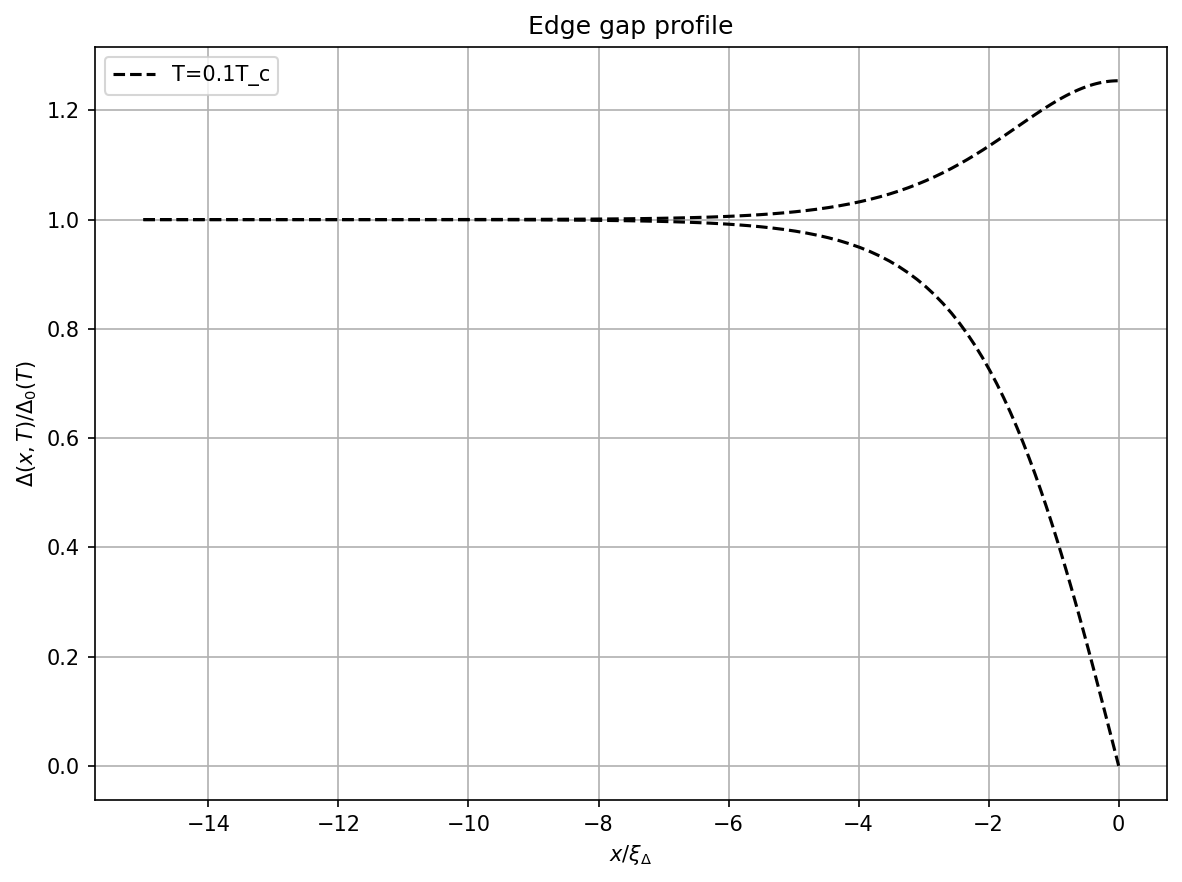
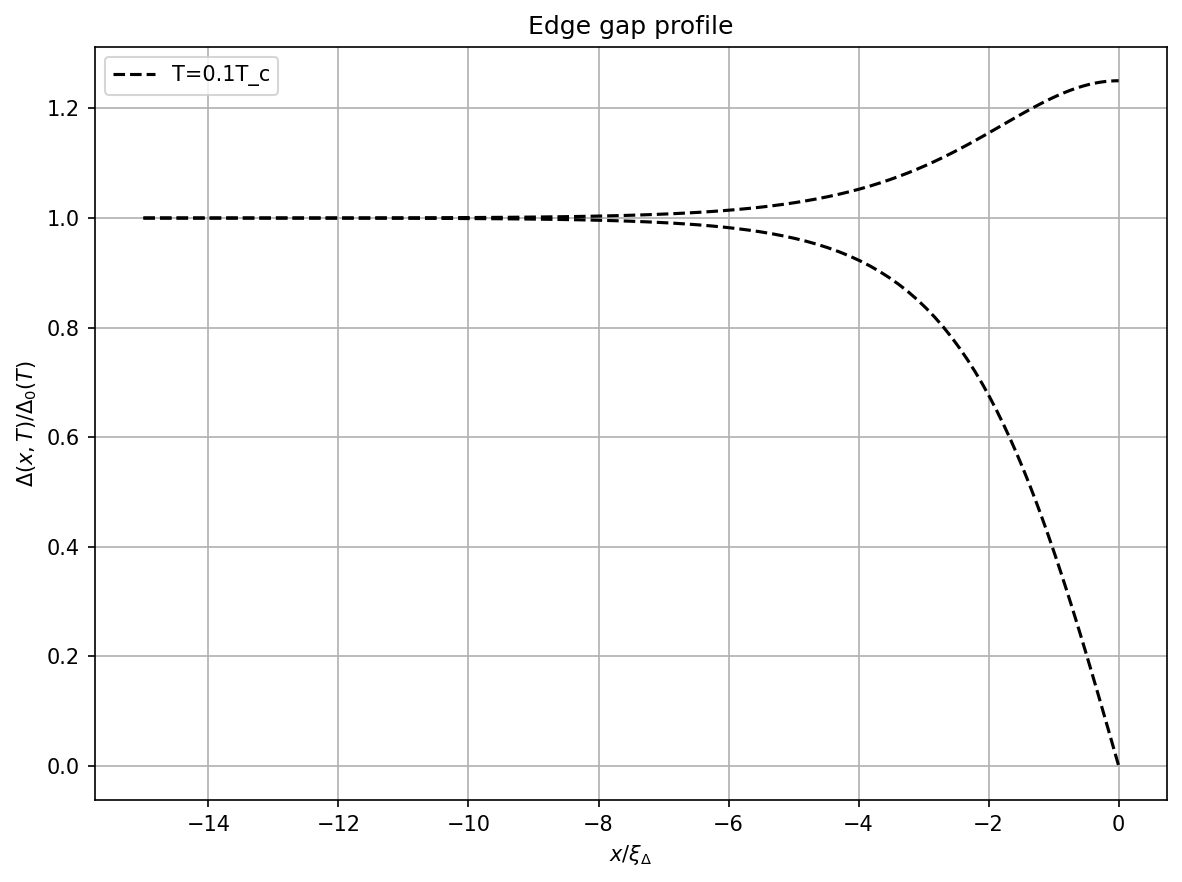
refactor: optimize propagator function by simplifying variable handling and improving interpolation methods for enhanced performance

diff --git a/src/qc_edge/propagator.py b/src/qc_edge/propagator.py
@@ -38,14 +38,10 @@ def propagator(
     g : ndarray
         Diagonal component of the Green's function
     """
-    DDelta1 = Delta1.copy()
-    DDelta2 = Delta2.copy()
 
     px = np.cos(thetap)
     py = np.sin(thetap)
-    x = np.concatenate(
-        [xspan, -np.flip(xspan[:-1])]
-    )  # x coordinate of the classical trajectory
+    x = np.concatenate([xspan, -np.flip(xspan[:-1])])
 
     if abs(thetap - np.pi / 2) < 1e-10 or abs(thetap + np.pi / 2) < 1e-10:
         f1 = np.zeros(len(x))
@@ -53,30 +49,20 @@ def propagator(
         g = -epsilon * np.pi / np.sqrt(1 - epsilon**2) * np.ones(len(x))
         return x, f1, f2, g
 
-    t = x / px  # coordinate along a classical trajectory
-    DDelta1 = np.concatenate(
-        [px * DDelta1, -px * np.flip(DDelta1[:-1])]
-    )  # encode a '-' from -px after bouncing off the wall
-    DDelta2 = np.concatenate([py * DDelta2, py * np.flip(DDelta2[:-1])])
-
-    # step size no bigger than 0.1xi
-    t1 = np.arange(t[0] + 0.1, t[-1] - 0.1 + 0.1, 0.1)
-    T = np.sort(np.concatenate([t, t1]))
-    sort_indices = np.argsort(np.concatenate([t, t1]))
-    revert_indices = np.argsort(sort_indices)
+    # encode a '-' from -px after bouncing off the wall for Delta1
+    Delta1 = np.concatenate([px * Delta1, -px * np.flip(Delta1[:-1])])
+    Delta2 = np.concatenate([py * Delta2, py * np.flip(Delta2[:-1])])
 
     # Interpolation
-    interp_Delta1 = interp1d(t, DDelta1, kind="cubic", fill_value="extrapolate")
-    interp_Delta2 = interp1d(t, DDelta2, kind="cubic", fill_value="extrapolate")
-    Delta1 = interp_Delta1(T)
-    Delta2 = interp_Delta2(T)
+    interp_Delta1 = interp1d(x, Delta1, kind="cubic", fill_value="extrapolate")
+    interp_Delta2 = interp1d(x, Delta2, kind="cubic", fill_value="extrapolate")
 
-    Tq = (T[:-1] + T[1:]) / 2  # half step (used in 4th-order Runge Kutta method)
-    delta1 = interp_Delta1(Tq)
-    delta2 = interp_Delta2(Tq)
+    xq = (x[:-1] + x[1:]) / 2  # half step (used in 4th-order Runge Kutta method)
+    delta1 = interp_Delta1(xq)
+    delta2 = interp_Delta2(xq)
 
-    a = np.zeros(len(T), dtype=complex)
-    abar = np.zeros(len(T), dtype=complex)
+    a = np.zeros(len(x), dtype=complex)
+    abar = np.zeros(len(x), dtype=complex)
 
     g = -np.pi * epsilon / np.sqrt(1 - epsilon**2)
     f1 = np.pi / np.sqrt(1 - epsilon**2) * px
@@ -121,7 +107,7 @@ def propagator(
         k_4 = func(Delta1_2, Delta2_2, y_0 + h * k_3)
         return y_0 + (h / 6) * (k_1 + 2 * k_2 + 2 * k_3 + k_4)
 
-    for i in range(len(T) - 1):
+    for i in range(len(x) - 1):
         a[i + 1] = RK4(
             ricatti1,
             Delta1[i],
@@ -131,9 +117,9 @@ def propagator(
             Delta1[i + 1],
             Delta2[i + 1],
             a[i],
-            T[i + 1] - T[i],
+            x[i + 1] - x[i],
         )
-        idx = len(T) - i - 2
+        idx = len(x) - i - 2
         abar[idx] = RK4(
             ricatti2,
             Delta1[idx + 1],
@@ -143,7 +129,7 @@ def propagator(
             Delta1[idx],
             Delta2[idx],
             abar[idx + 1],
-            T[idx] - T[idx + 1],
+            x[idx] - x[idx + 1],
         )
 
     g = -1j * np.pi * (1 + a * abar) / (1 - a * abar)
@@ -151,11 +137,5 @@ def propagator(
     fbar = -1j * np.pi * (-2 * abar) / (1 - abar * a)
     f1 = (f - fbar) / 2
     f2 = (f + fbar) / 2 / 1j
-
-    # Extract original x points
-    num_x = len(x)
-    g = g[revert_indices[:num_x]]
-    f1 = f1[revert_indices[:num_x]]
-    f2 = f2[revert_indices[:num_x]]
 
     return x, f1, f2, g
